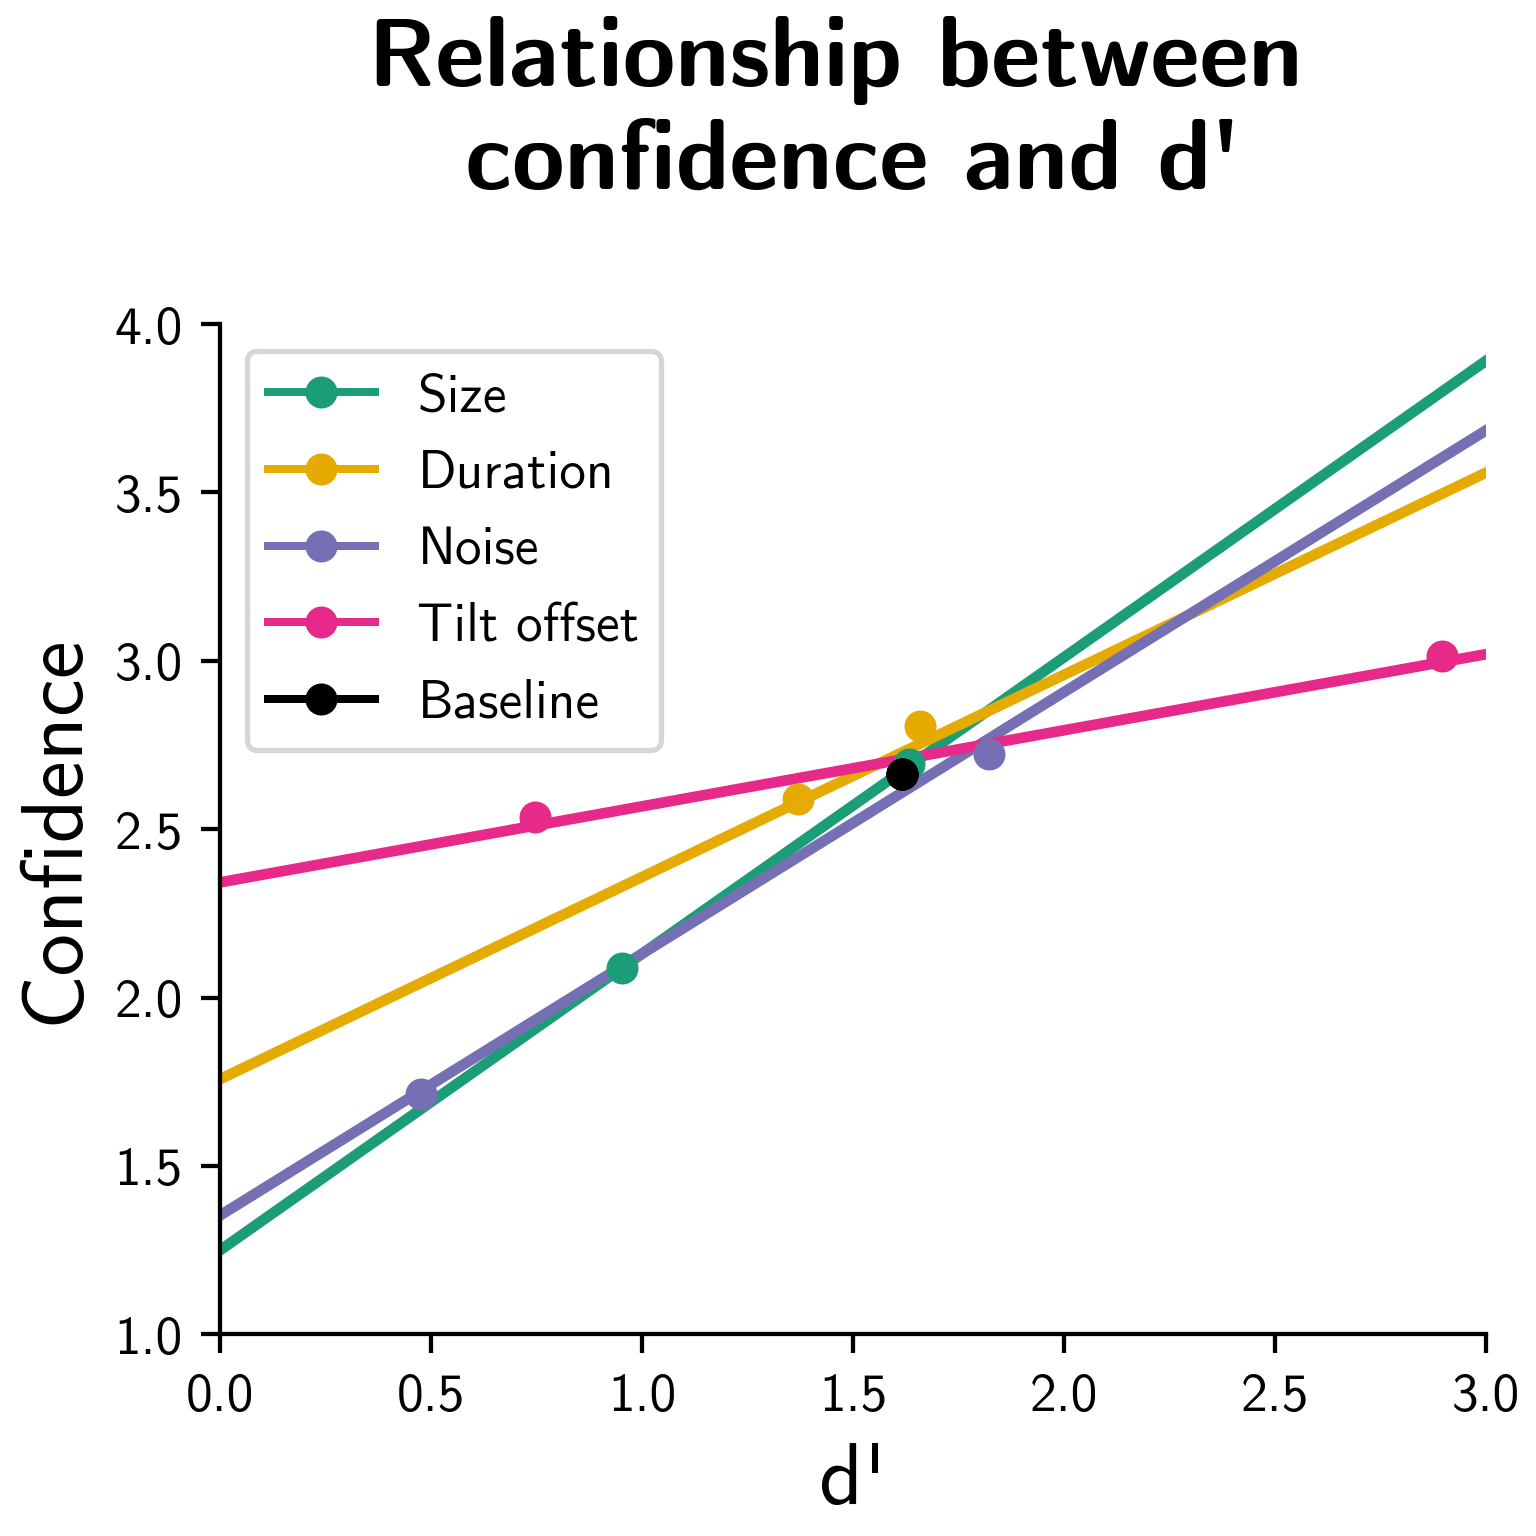
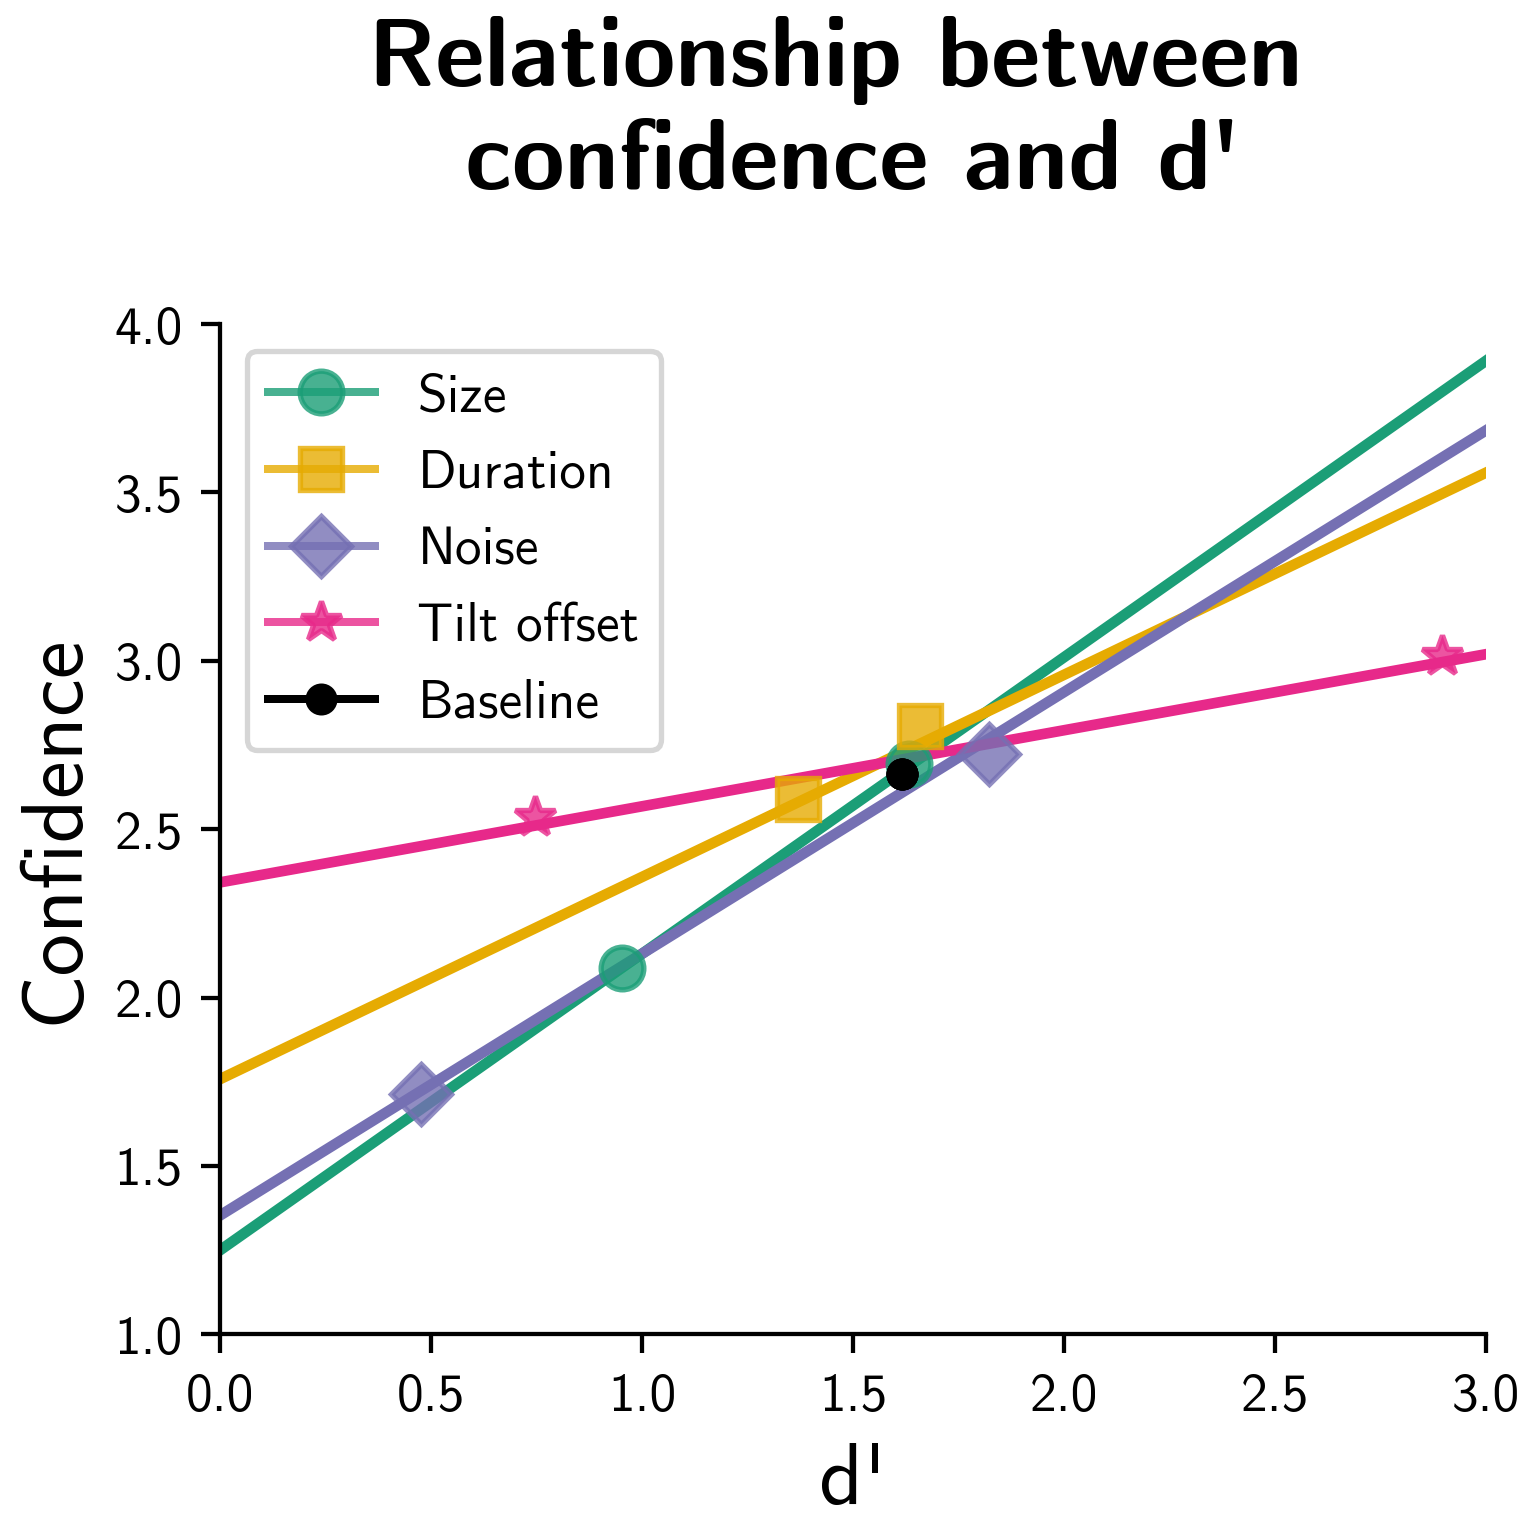
add z_difference.png

diff --git a/data_code/analyze_expt_1.py b/data_code/analyze_expt_1.py
@@ -264,6 +264,145 @@ def plot_difference(data, path):
     plot_name = path / 'difference.png'
     fig.savefig(plot_name, format='png', dpi=384, transparent=True)
     print(plot_name)
+    plt.close()
+
+
+def plot_z_transform_difference(data, path):
+    # z delta d' - z delta confidence
+
+    subjs = data.subj_no.unique()
+    split_plot = [['size_low', 'size_high'],
+                  ['dur_low', 'dur_high'],
+                  ['noise_high', 'noise_low'],
+                  ['tilt_low', 'tilt_high']
+                  ]
+    measures = ['d-prime', 'conf_resp']
+    plot_data = np.empty(shape=(2, len(subjs), 4))
+
+    for m, measure in enumerate(measures):
+        for s, subj in enumerate(subjs):
+            subj_data = data[data.subj_no == subj]
+            for i in range(len(split_plot)):
+                plot_data[m][s][i] = \
+                np.average(subj_data[subj_data.exp_cond == split_plot[i][1]][measure]) - \
+                np.average(subj_data[subj_data.exp_cond == split_plot[i][0]][measure])
+
+    mean = np.mean(plot_data, axis = (1,2), keepdims=True)
+    std = np.std(plot_data, axis = (1,2), keepdims=True)
+    plot_data = (plot_data - mean) / std
+
+    label = ['Size', 'Duration', 'Noise', 'Tilt \noffset']
+    paired_t_tests = []
+
+    # compute stats for within feature, across metrics
+    for i in range(4):
+        for m in range(2):
+            for j in range(m+1, 2):
+                t_stat, p_val = ttest_rel(plot_data[m, :, i], plot_data[j, :, i])
+                bayes10 = float(pg.ttest(plot_data[m, :, i], plot_data[j, :, i], paired=True)['BF10'].values[0])
+                bayes01 = 1 / bayes10
+                paired_t_tests.append((label[i], t_stat, p_val, bayes10, bayes01))
+
+    # compute stats for cross feature on difference
+    plot_data = -np.diff(plot_data, axis=0)
+    plot_data = plot_data.squeeze()
+    cross_feat_t_tests = []
+    for i in range(4):
+        for j in range(i+1, 4):
+            t_stat, p_val = ttest_rel(plot_data[:, i], plot_data[:, j])
+            bayes10 = float(pg.ttest(plot_data[:, i], plot_data[:, j], paired=True)['BF10'].values[0])
+            bayes01 = 1 / bayes10
+            cross_feat_t_tests.append((label[i], label[j], t_stat, p_val, bayes10, bayes01))
+
+    # plot graph
+    plt.clf()
+    fig, ax = plt.subplots(1,1, layout="constrained", figsize=(6,4))
+    plate = plt.cm.get_cmap('Dark2', 8)
+    plate = [plate(0), plate(5), plate(2), plate(3)]
+    titles = ['d\' difference', 'Confidence difference']
+    x_pos = np.array([0,1,2,3])
+    buffer = [-0.25, 0.25]
+    alpha = [0.65, 0.35]
+    labels = ['d\'', 'Confidence']
+
+    avg = np.average(plot_data, axis = 0)
+    se = sem(plot_data, axis = 0)
+    ax.bar(x_pos, avg, yerr=se, color=plate, alpha = 0.5, width=0.75)
+    ax.set_xticks(x_pos, label, fontsize=14)
+    ax.spines['top'].set_visible(False)
+    ax.spines['right'].set_visible(False)
+
+    for sub in range(plot_data.shape[0]):
+        x_position = x_pos - 0.25
+        ax.scatter(x_position, plot_data[sub], color=plate, alpha=1,
+                      s=5
+                      )
+        # ax.plot(x_position, plot_data[m][sub], color='k', alpha = 0.1)
+
+    x_pos = [0.2, 1.2, 2.2, 3.2]
+    y_pos = [-1, -0.8, -1.1, -0.5]
+    for i, test in enumerate(paired_t_tests):
+        print(test)
+        # Determine if p is over power 3
+        if test[2] < 1e-3:
+            power = int(np.floor(np.log10(test[2])))
+            coefficient = test[2] / (10 ** power)
+            annotation = r"$p = {:.2f} \times 10^{{{}}}$".format(coefficient, power)
+        else:
+            annotation = r"$p = {:.2f}$".format(test[2])
+
+        ax.annotate(annotation, xy=(x_pos[i], y_pos[i]),
+                      xytext=(0, 0), textcoords='offset points',
+                      ha='center', va='bottom', fontsize=6, color='black',
+                     )
+
+#         ax.plot([x_pos[i]-0.25, x_pos[i]+0.25], [y_pos, y_pos],
+#                  color='k', alpha = 0.5
+#                    )
+
+    print('--------------------------------------------------------------------------------')
+    y_pos_array = np.array([3, 4, 6, 3.5, 5.25, 4.5]) - 0.4
+    for i, test in enumerate(cross_feat_t_tests):
+        print(test)
+        x_pos = 0.5 * (label.index(test[0]) + label.index(test[1]))
+
+        # Determine if p is over power 3
+        if test[3] < 1e-3:
+            power = int(np.floor(np.log10(test[3])))
+            coefficient = test[3] / (10 ** power)
+            annotation = r"$p = {:.2f} \times 10^{{{}}}$".format(coefficient, power)
+            alpha = 1
+        else:
+            annotation = r"$p = {:.2f}$".format(test[3])
+            alpha = 0.5
+
+        ax.annotate(annotation, xy=(x_pos, y_pos_array[i]),
+                      xytext=(0, 0), textcoords='offset points',
+                      ha='center', va='bottom', fontsize=8, color='black',
+                    alpha = alpha
+                     )
+        ax.plot([label.index(test[0]), label.index(test[1])], [y_pos_array[i], y_pos_array[i]],
+                 color='k', alpha = alpha
+                   )
+
+    # plot a horizontal line at 0, y = 0
+    ax.plot([-1.25, 5.5], [0, 0], 'k', alpha=1)
+    # upper arrow on the line
+    ax.arrow(3.75, 0, 0, 0.7, head_width=0.1, head_length=0.25, width=0.025,fc='k', ec='k')
+    ax.arrow(3.75, 0, 0, -0.7, head_width=0.1, head_length=0.25, width=0.025,fc='k', ec='k')
+    ax.annotate('Larger effect on \naccuracy than confidence', xy=(3.85, 0.25), xytext=(0, 0), textcoords='offset points',
+                fontsize=8, color='black', fontweight='bold')
+    ax.annotate('Larger effect on \nconfidence than accuracy', xy=(3.85, -0.95), xytext=(0, 0), textcoords='offset points',
+                fontsize=8, color='black', fontweight='bold')
+    ax.set_xlim(-0.75, 5.5)
+
+
+    ax.set_ylabel(r"z($\Delta$d') - z($\Delta$confidence)", fontsize=14)
+    plt.suptitle('z-scored difference analysis\n', fontsize=18, fontweight='bold')
+    plot_name = path / 'z_difference.png'
+    fig.savefig(plot_name, format='png', dpi=384, transparent=True)
+    print(plot_name)
+    plt.close()
 
 
 def plot_foldedX(data, path):
@@ -375,6 +514,7 @@ def plot_acc_conf_scatter(data, path):
     label = ['Size', 'Duration', 'Noise', 'Tilt offset']
     plate = plt.cm.get_cmap('Dark2', 8)
     plate = [plate(0), plate(5), plate(2), plate(3)]
+    markers = ['o', 's', 'D', '*']
 
     for i in range(len(split_plot)):
         x = split_plot[i]
@@ -395,9 +535,9 @@ def plot_acc_conf_scatter(data, path):
         for k in range(3):
             if k != 1:
                 plt.errorbar(x_axis[k], y_axis[k], label=label[i] if k == 0 else None,
-                            color=plate[i], marker='o', zorder=2,
+                            color=plate[i], marker=markers[i], zorder=2,
                             # xerr=xerr[k], yerr=yerr[k],
-                            markersize=5, alpha=1,
+                            markersize=8, alpha=0.8,
                             )
             else:
                 plt.errorbar(x_axis[k], y_axis[k], color='black', marker='o', zorder=3,
@@ -418,6 +558,7 @@ def plot_acc_conf_scatter(data, path):
     plot_name = path / 'acc_conf_scatter.png'
     plt.savefig(plot_name, format='png', dpi=384, transparent=True)
     print(plot_name)
+    plt.close()
 
 
 def plot_acc_conf_slope(data, path):
@@ -513,6 +654,7 @@ def plot_acc_conf_slope(data, path):
     plot_name = path / 'acc_conf_slope.png'
     plt.savefig(plot_name, format='png', dpi=384, transparent=True)
     print(plot_name)
+    plt.close()
 
 
 def graph(data, path):
@@ -524,6 +666,9 @@ def graph(data, path):
 
     # Figure 2c
     plot_difference(data, path)
+
+    # Figure 2d
+    plot_z_transform_difference(data, path)
 
     # Figure 5
     plot_foldedX(data, path)
